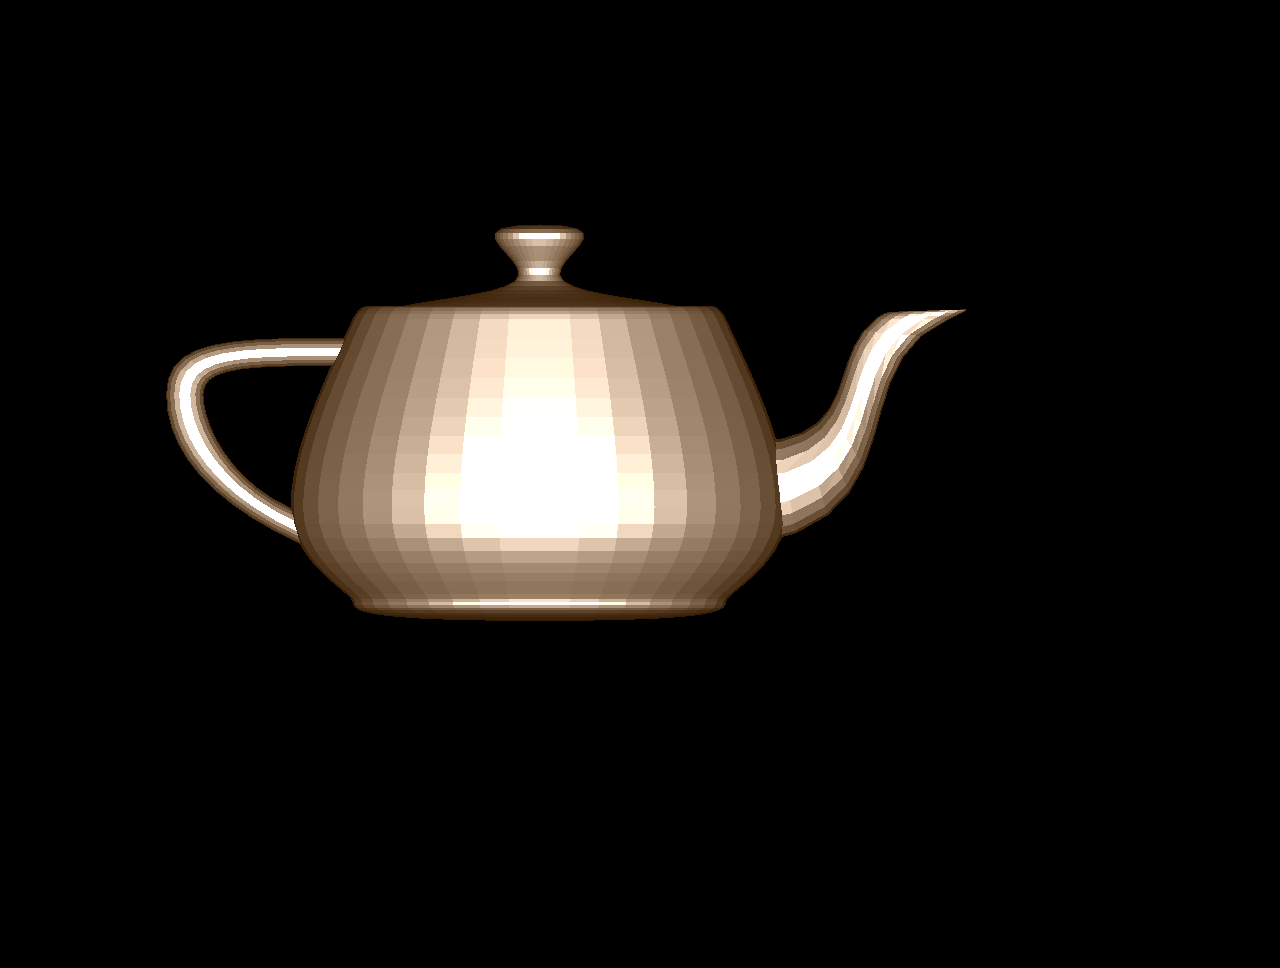
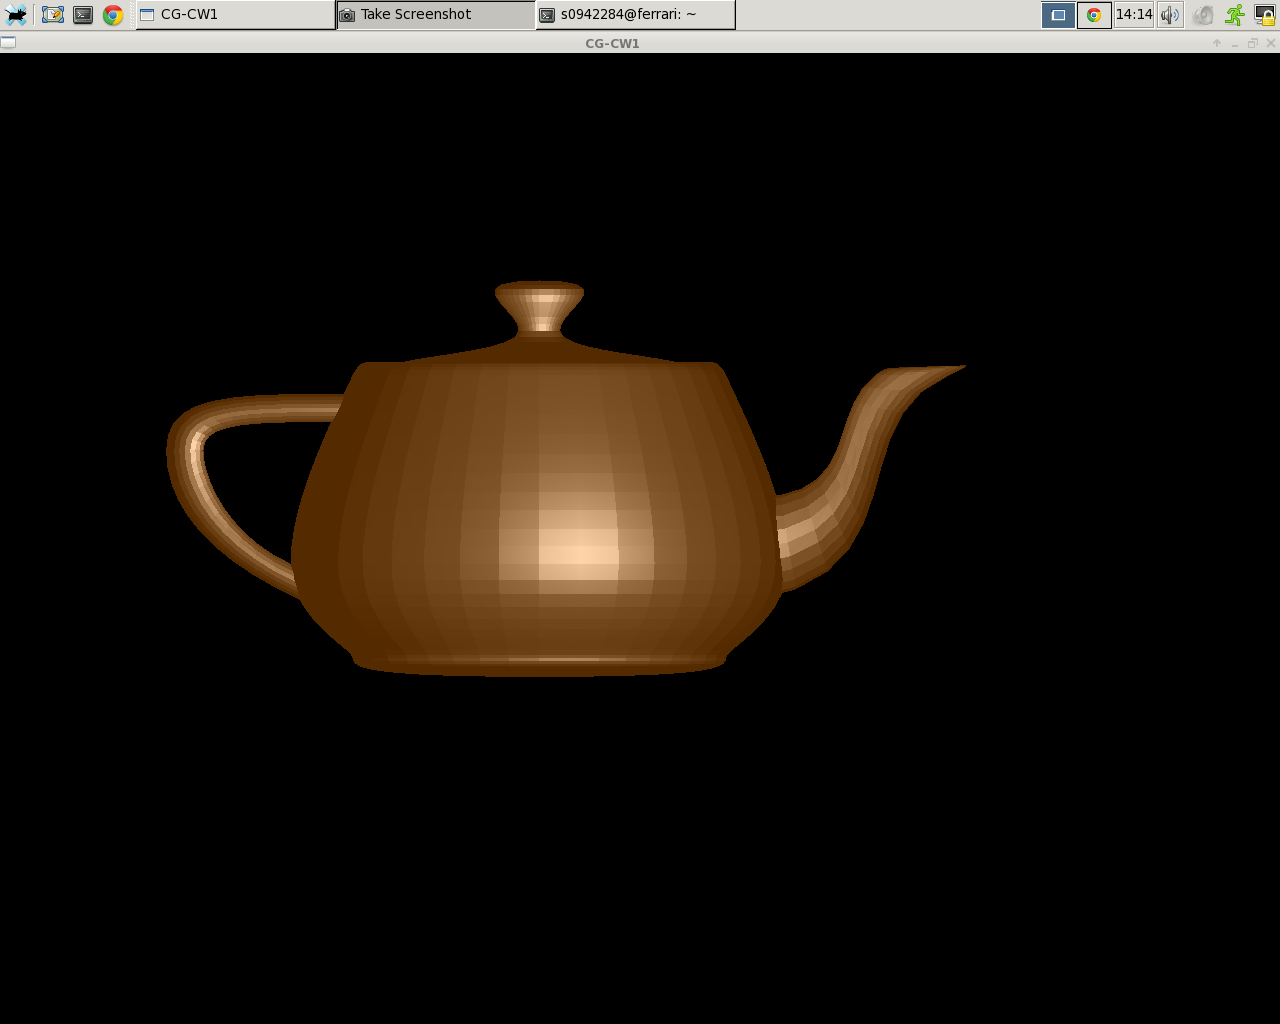
Play around with constants

Changed region(s): [[0.125, 0.2169, 0.75, 0.6818], [0.0, 0.0, 1.0, 0.062]]

diff --git a/src/main.cpp b/src/main.cpp
@@ -16,7 +16,7 @@ float shininess             = 10;
 float constantAttenuation   = 0.1;
 float linearAttenuation     = 0.9;
 float lightPosition[3]      = {0.00, 0.00, 2.00};
-float lightAmbient[3]       = {0.33, 0.33, 0.33};
+float lightAmbient[3]       = {0.01, 0.01, 0.01};
 float lightDiffuse[3]       = {0.33, 0.33, 0.33};
 float lightSpecular[3]      = {0.50, 0.50, 0.50};
 float lightGlobal[3]        = {0.33, 0.33, 0.33};
